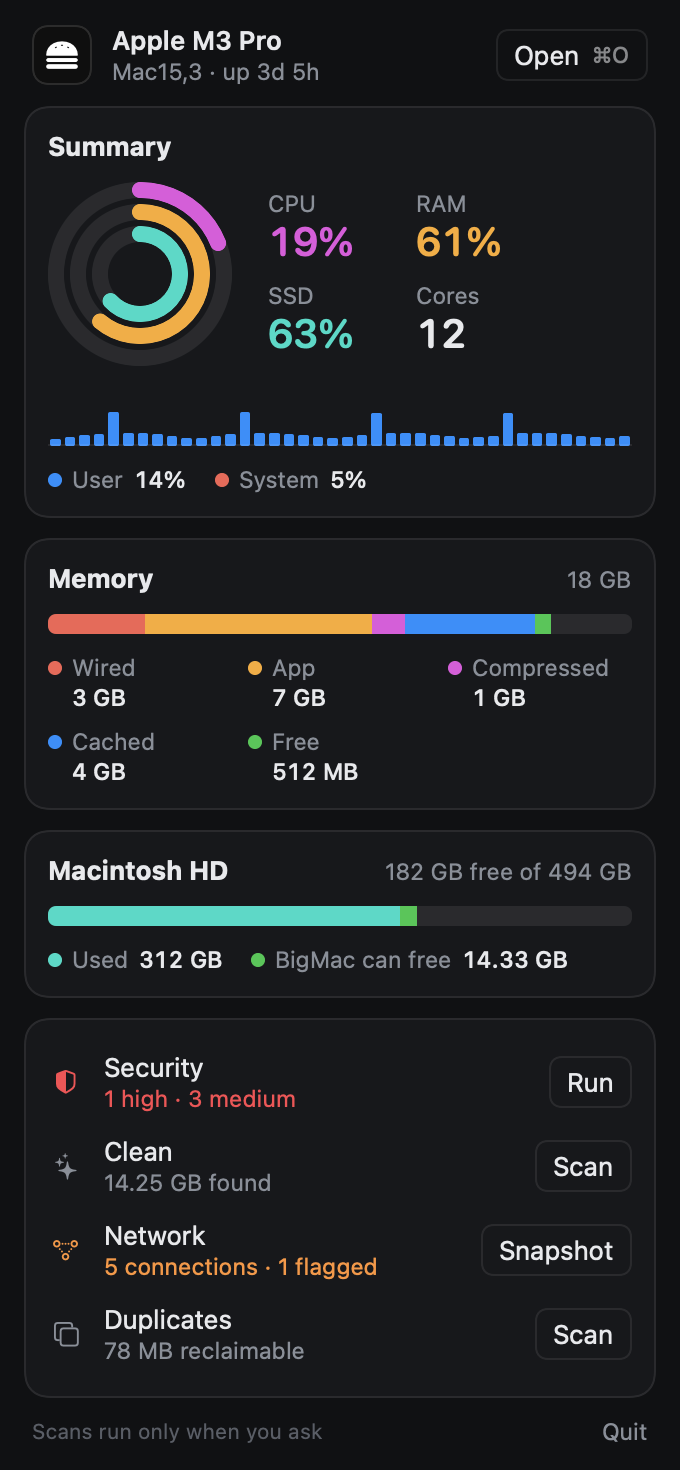
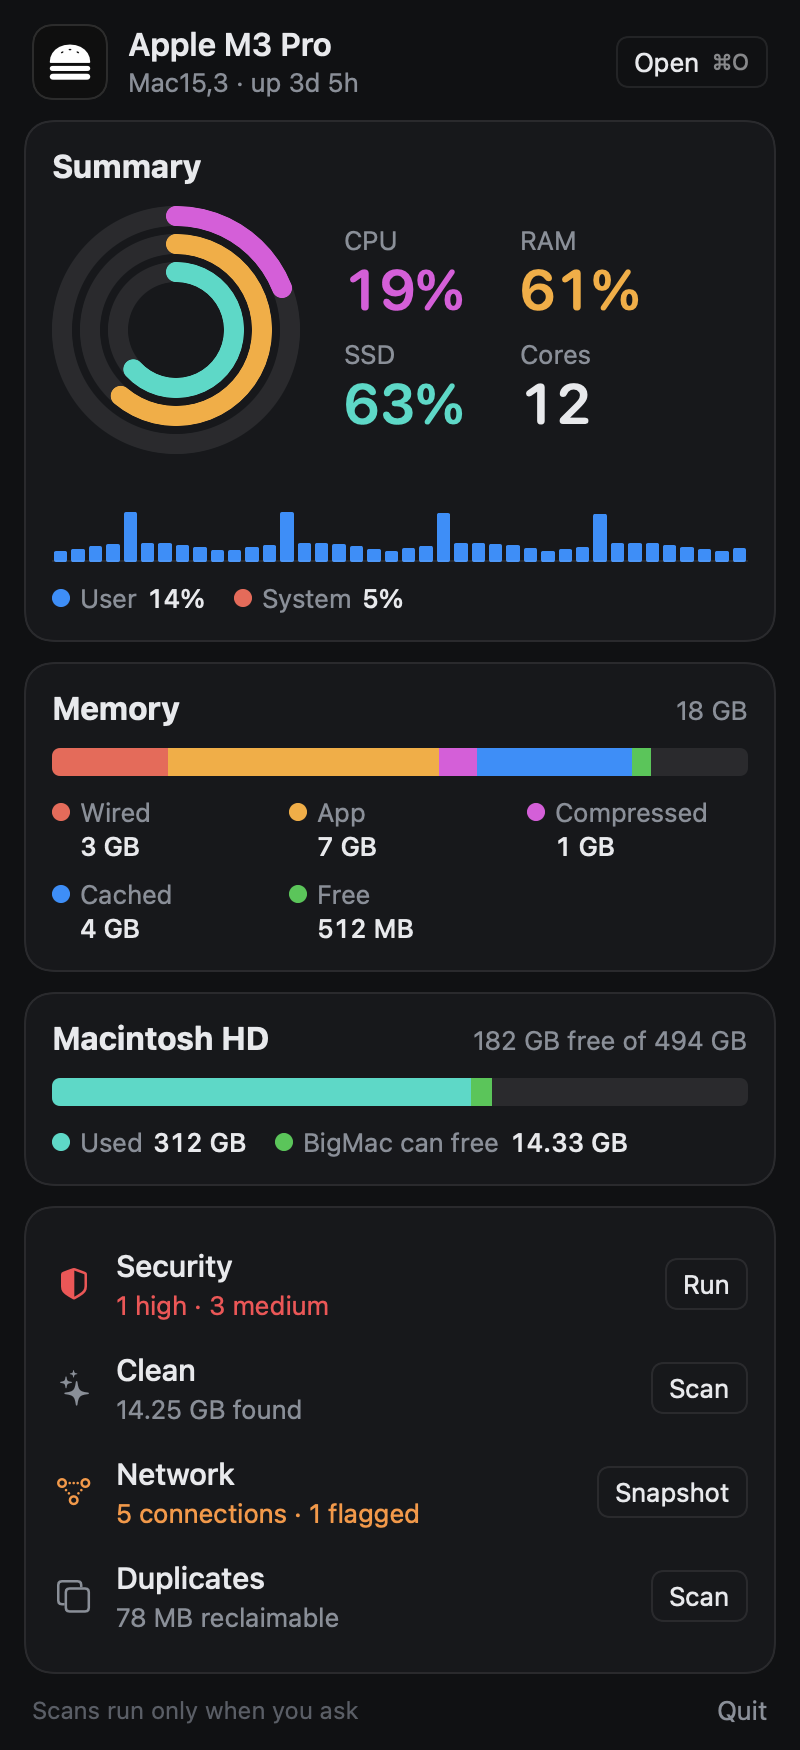
Bigger menu bar panel
400 pt wide, larger type, rings, bars and rows.

diff --git a/Sources/BigMac/Views/MenuBarPanel.swift b/Sources/BigMac/Views/MenuBarPanel.swift
@@ -20,7 +20,7 @@ struct MenuBarPanel: View {
             footer
         }
         .padding(12)
-        .frame(width: 340)
+        .frame(width: 400)
         .background(Theme.canvas)
         .onAppear { stats.start() }
         .onDisappear { stats.stop() }
@@ -30,10 +30,10 @@ struct MenuBarPanel: View {
 
     private var header: some View {
         HStack(spacing: 10) {
-            LogoBadge(size: 30)
+            LogoBadge(size: 38)
             VStack(alignment: .leading, spacing: 1) {
-                Text(stats.chip.isEmpty ? stats.model : stats.chip).font(.system(size: 13, weight: .semibold)).foregroundStyle(Theme.text)
-                Text("\(stats.model) · up \(Self.uptime(stats.uptime))").font(Theme.small).foregroundStyle(Theme.secondary)
+                Text(stats.chip.isEmpty ? stats.model : stats.chip).font(.system(size: 16, weight: .semibold)).foregroundStyle(Theme.text)
+                Text("\(stats.model) · up \(Self.uptime(stats.uptime))").font(P.small).foregroundStyle(Theme.secondary)
             }
             Spacer()
             Button { openMain() } label: { ActionLabel("Open", key: "⌘O") }
@@ -46,13 +46,13 @@ struct MenuBarPanel: View {
 
     private var summaryCard: some View {
         Card("Summary") {
-            HStack(spacing: 18) {
+            HStack(spacing: 22) {
                 ZStack {
-                    Ring(value: stats.cpu, color: Palette.cpu, diameter: 92)
-                    Ring(value: stats.memory.pressure, color: Palette.ram, diameter: 70)
-                    Ring(value: stats.disk.fraction, color: Palette.ssd, diameter: 48)
+                    Ring(value: stats.cpu, color: Palette.cpu, diameter: 124)
+                    Ring(value: stats.memory.pressure, color: Palette.ram, diameter: 96)
+                    Ring(value: stats.disk.fraction, color: Palette.ssd, diameter: 68)
                 }
-                .frame(width: 92, height: 92)
+                .frame(width: 124, height: 124)
                 VStack(alignment: .leading, spacing: 8) {
                     HStack(spacing: 18) {
                         BigStat("CPU", Self.percent(stats.cpu), Palette.cpu)
@@ -66,7 +66,7 @@ struct MenuBarPanel: View {
                 Spacer(minLength: 0)
             }
             CPUBars(history: stats.cpuHistory)
-                .frame(height: 30)
+                .frame(height: 44)
             HStack(spacing: 14) {
                 Legend(Palette.user, "User", Self.percent(stats.cpuUser))
                 Legend(Palette.system, "System", Self.percent(stats.cpuSystem))
@@ -126,10 +126,10 @@ struct MenuBarPanel: View {
 
     private var footer: some View {
         HStack {
-            Text("Scans run only when you ask").font(.system(size: 10.5)).foregroundStyle(Theme.tertiary)
+            Text("Scans run only when you ask").font(.system(size: 12)).foregroundStyle(Theme.tertiary)
             Spacer()
             Button("Quit") { NSApp.terminate(nil) }
-                .buttonStyle(.plain).font(Theme.small).foregroundStyle(Theme.secondary).keyboardShortcut("q")
+                .buttonStyle(.plain).font(P.small).foregroundStyle(Theme.secondary).keyboardShortcut("q")
         }
         .padding(.horizontal, 4)
     }
@@ -157,16 +157,16 @@ struct MenuBarPanel: View {
     private func row(_ title: String, _ symbol: String, _ summary: (String, Color), busy: Bool,
                      action: String, perform: @escaping () -> Void) -> some View {
         HStack(spacing: 10) {
-            Image(systemName: symbol).font(.system(size: 12)).foregroundStyle(summary.1 == Theme.tertiary ? Theme.secondary : summary.1)
-                .frame(width: 18)
-            VStack(alignment: .leading, spacing: 1) {
-                Text(title).font(Theme.body).foregroundStyle(Theme.text)
-                Text(summary.0).font(Theme.small).foregroundStyle(summary.1).lineLimit(1)
+            Image(systemName: symbol).font(.system(size: 16)).foregroundStyle(summary.1 == Theme.tertiary ? Theme.secondary : summary.1)
+                .frame(width: 22)
+            VStack(alignment: .leading, spacing: 2) {
+                Text(title).font(.system(size: 15, weight: .medium)).foregroundStyle(Theme.text)
+                Text(summary.0).font(P.small).foregroundStyle(summary.1).lineLimit(1)
             }
             Spacer(minLength: 8)
             if busy { ProgressView().controlSize(.small) } else { Button(action: perform) { ActionLabel(action) }.buttonStyle(.ghost) }
         }
-        .frame(height: 40)
+        .frame(height: 50)
         .contentShape(Rectangle())
         .onTapGesture(count: 2) { openMain() }
     }
@@ -185,6 +185,11 @@ struct MenuBarPanel: View {
         f.unitsStyle = .abbreviated
         return f.string(from: t) ?? ""
     }
+}
+
+/// Panel type sizes: larger than the main window's, since the popover is read at a glance.
+private enum P {
+    static let small = Font.system(size: 13)
 }
 
 /// iStatistica-like colours: magenta CPU, orange RAM, teal SSD; the memory split matches Activity Monitor's.
@@ -216,17 +221,17 @@ private struct Card<Content: View>: View {
         VStack(alignment: .leading, spacing: 10) {
             if let title {
                 HStack(alignment: .firstTextBaseline) {
-                    Text(title).font(.system(size: 13, weight: .bold)).foregroundStyle(Theme.text)
+                    Text(title).font(.system(size: 16, weight: .bold)).foregroundStyle(Theme.text)
                     Spacer()
-                    if let trailing { Text(trailing).font(Theme.small).foregroundStyle(Theme.secondary) }
+                    if let trailing { Text(trailing).font(P.small).foregroundStyle(Theme.secondary) }
                 }
             }
             content
         }
-        .padding(12)
+        .padding(14)
         .frame(maxWidth: .infinity, alignment: .leading)
-        .background(Theme.raised, in: RoundedRectangle(cornerRadius: 12))
-        .overlay(RoundedRectangle(cornerRadius: 12).strokeBorder(Theme.border))
+        .background(Theme.raised, in: RoundedRectangle(cornerRadius: 14))
+        .overlay(RoundedRectangle(cornerRadius: 14).strokeBorder(Theme.border))
     }
 }
 
@@ -237,13 +242,13 @@ private struct Ring: View {
 
     var body: some View {
         ZStack {
-            Circle().stroke(Theme.border, lineWidth: 8)
+            Circle().stroke(Theme.border, lineWidth: 10)
             Circle().trim(from: 0, to: max(0.005, min(value, 1)))
-                .stroke(color, style: StrokeStyle(lineWidth: 8, lineCap: .round))
+                .stroke(color, style: StrokeStyle(lineWidth: 10, lineCap: .round))
                 .rotationEffect(.degrees(-90))
                 .animation(.easeOut(duration: 0.4), value: value)
         }
-        .frame(width: diameter - 8, height: diameter - 8)
+        .frame(width: diameter - 10, height: diameter - 10)
     }
 }
 
@@ -253,10 +258,10 @@ private struct BigStat: View {
 
     var body: some View {
         VStack(alignment: .leading, spacing: 0) {
-            Text(label).font(Theme.small).foregroundStyle(Theme.secondary)
-            Text(value).font(.system(size: 20, weight: .semibold, design: .rounded)).foregroundStyle(color).monospacedDigit()
+            Text(label).font(P.small).foregroundStyle(Theme.secondary)
+            Text(value).font(.system(size: 28, weight: .semibold, design: .rounded)).foregroundStyle(color).monospacedDigit()
         }
-        .frame(minWidth: 56, alignment: .leading)
+        .frame(minWidth: 70, alignment: .leading)
     }
 }
 
@@ -271,21 +276,21 @@ private struct Legend: View {
     var body: some View {
         if stacked {
             VStack(alignment: .leading, spacing: 1) {
-                HStack(spacing: 5) { dot; Text(label).font(Theme.small).foregroundStyle(Theme.secondary) }
-                Text(value).font(Theme.small.weight(.medium)).foregroundStyle(Theme.text).monospacedDigit().padding(.leading, 12)
+                HStack(spacing: 5) { dot; Text(label).font(P.small).foregroundStyle(Theme.secondary) }
+                Text(value).font(P.small.weight(.medium)).foregroundStyle(Theme.text).monospacedDigit().padding(.leading, 14)
             }
             .lineLimit(1)
         } else {
             HStack(spacing: 5) {
                 dot
-                Text(label).font(Theme.small).foregroundStyle(Theme.secondary)
-                Text(value).font(Theme.small.weight(.medium)).foregroundStyle(Theme.text).monospacedDigit()
+                Text(label).font(P.small).foregroundStyle(Theme.secondary)
+                Text(value).font(P.small.weight(.medium)).foregroundStyle(Theme.text).monospacedDigit()
             }
             .lineLimit(1)
         }
     }
 
-    private var dot: some View { Circle().fill(color).frame(width: 7, height: 7) }
+    private var dot: some View { Circle().fill(color).frame(width: 9, height: 9) }
 }
 
 /// Horizontal bar split into coloured parts; the rest of `total` stays as the track.
@@ -304,7 +309,7 @@ private struct StackedBar: View {
             .background(Theme.border)
             .clipShape(RoundedRectangle(cornerRadius: 4))
         }
-        .frame(height: 10)
+        .frame(height: 14)
     }
 }
 

diff --git a/Sources/BigMac/Snapshot.swift b/Sources/BigMac/Snapshot.swift
@@ -47,7 +47,7 @@ enum Snapshot {
             print("wrote \(name).png")
         }
         for pane in Pane.allCases { render(pane.rawValue.replacingOccurrences(of: " ", with: "-"), ContentView(initial: pane)) }
-        render("menubar", MenuBarPanel(), width: 340, height: nil)  // natural height
+        render("menubar", MenuBarPanel(), width: 400, height: nil)  // natural height
         exit(0)
     }
 }

diff --git a/README.md b/README.md
@@ -24,7 +24,7 @@ A small, native Mac cleaner with a network monitor and a security audit. It runs
   <img src="docs/security.png" width="49%" alt="Security audit">
   <img src="docs/network.png" width="49%" alt="Network monitor">
 </p>
-<img src="docs/menubar.png" width="340" alt="Menu bar">
+<img src="docs/menubar.png" width="400" alt="Menu bar">
 
 ## Install
 
